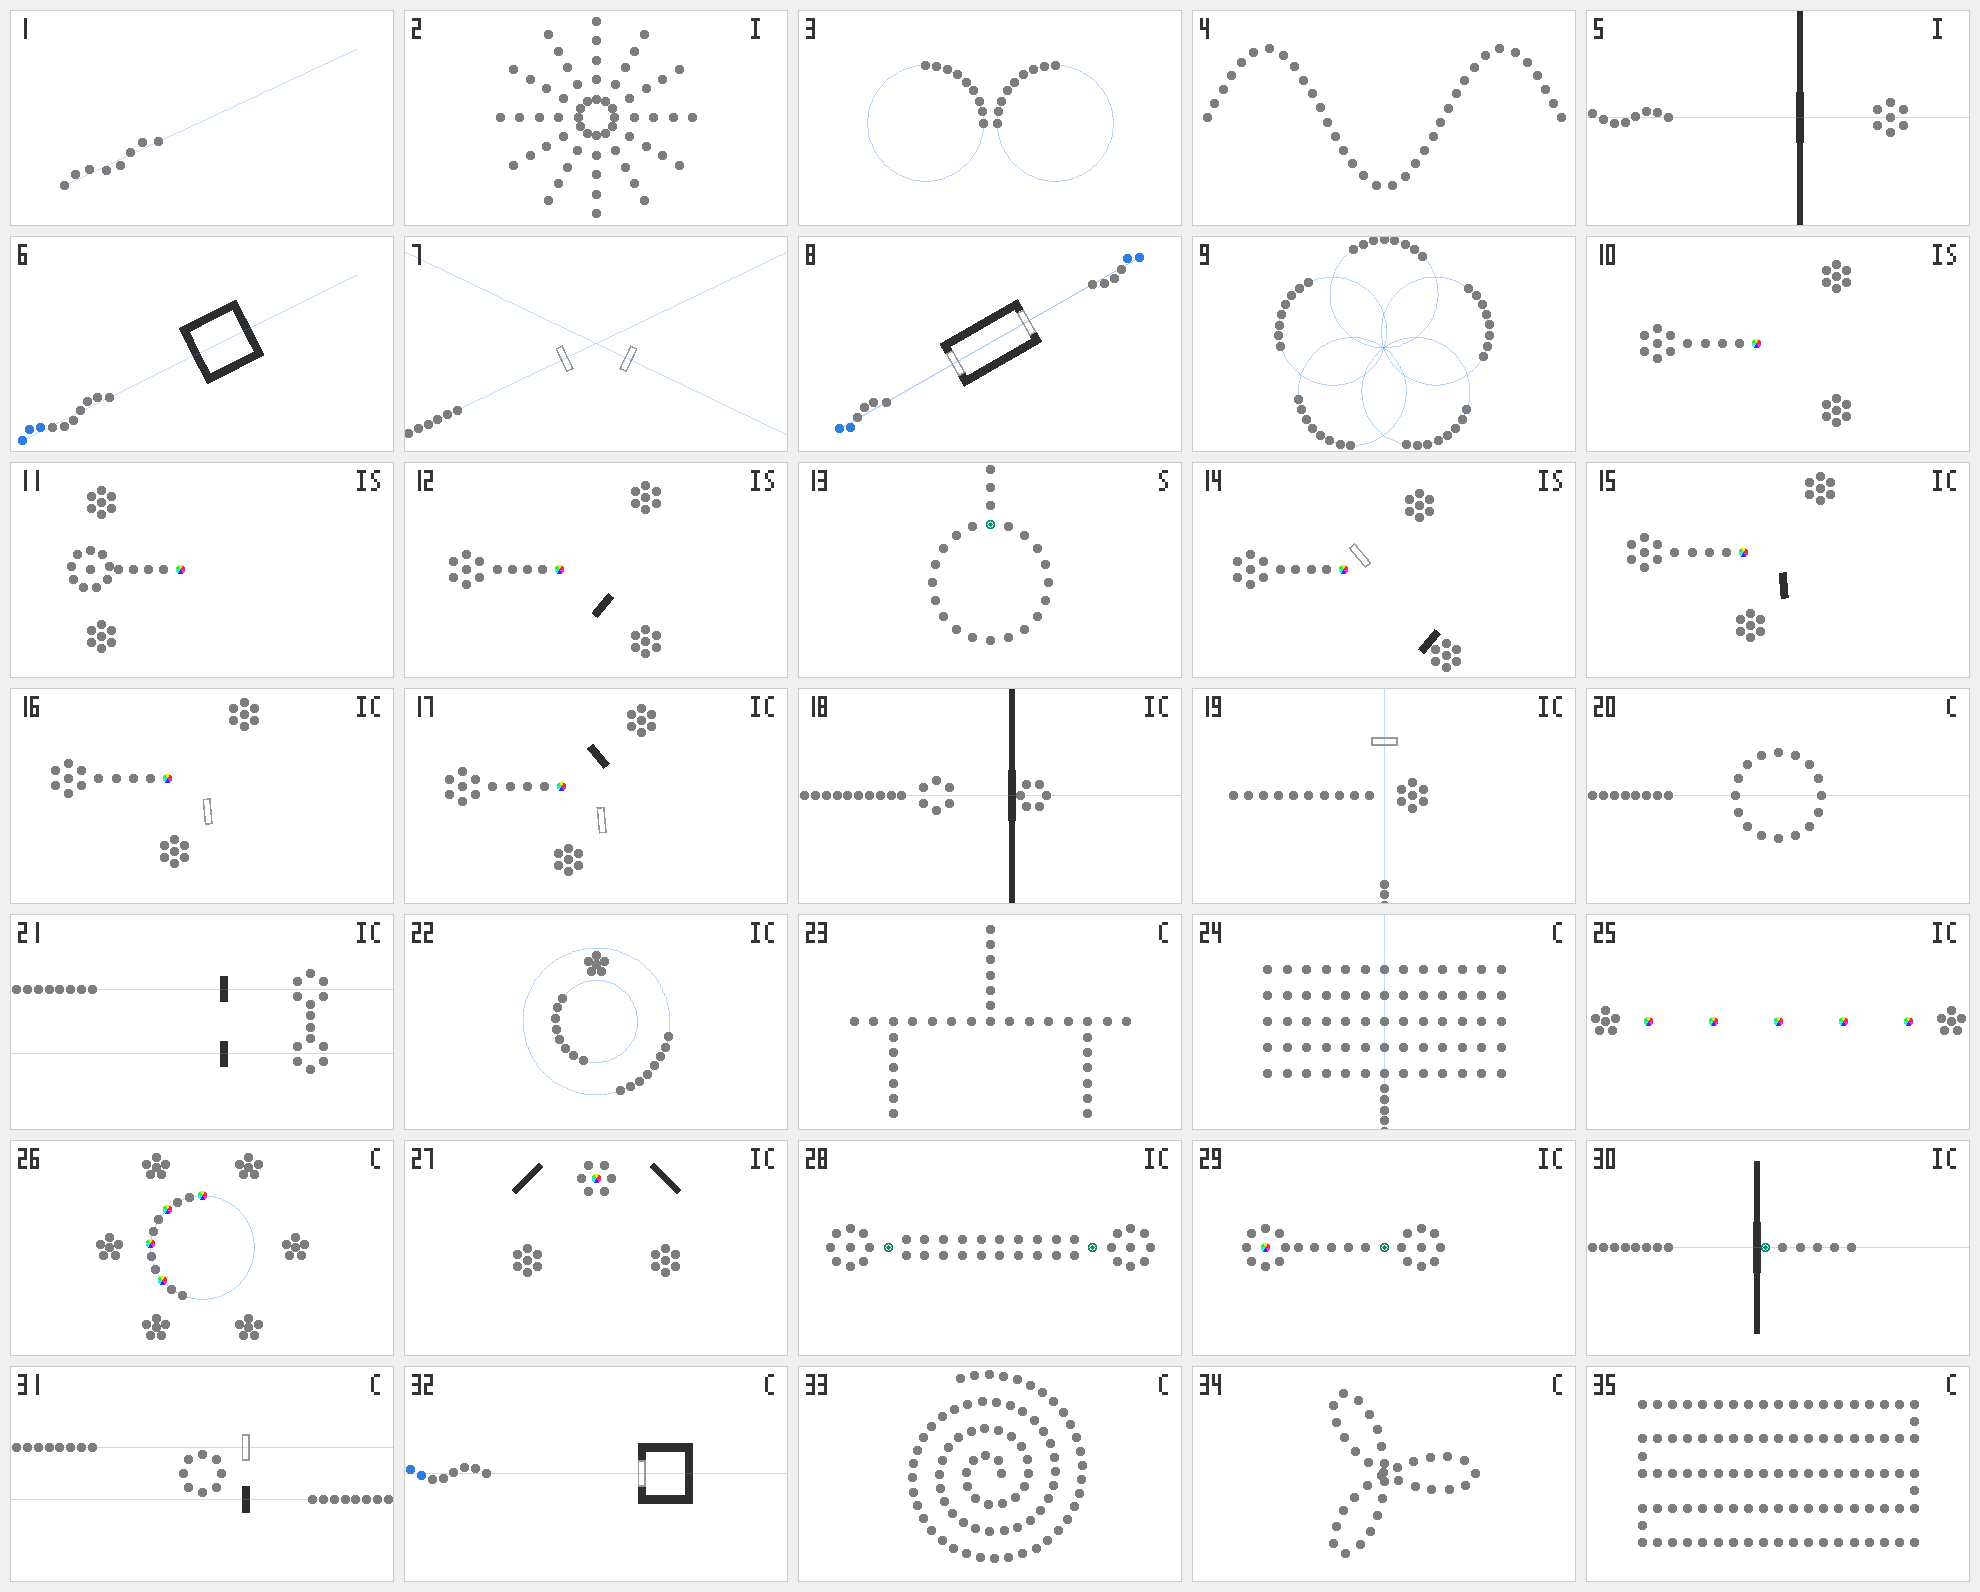
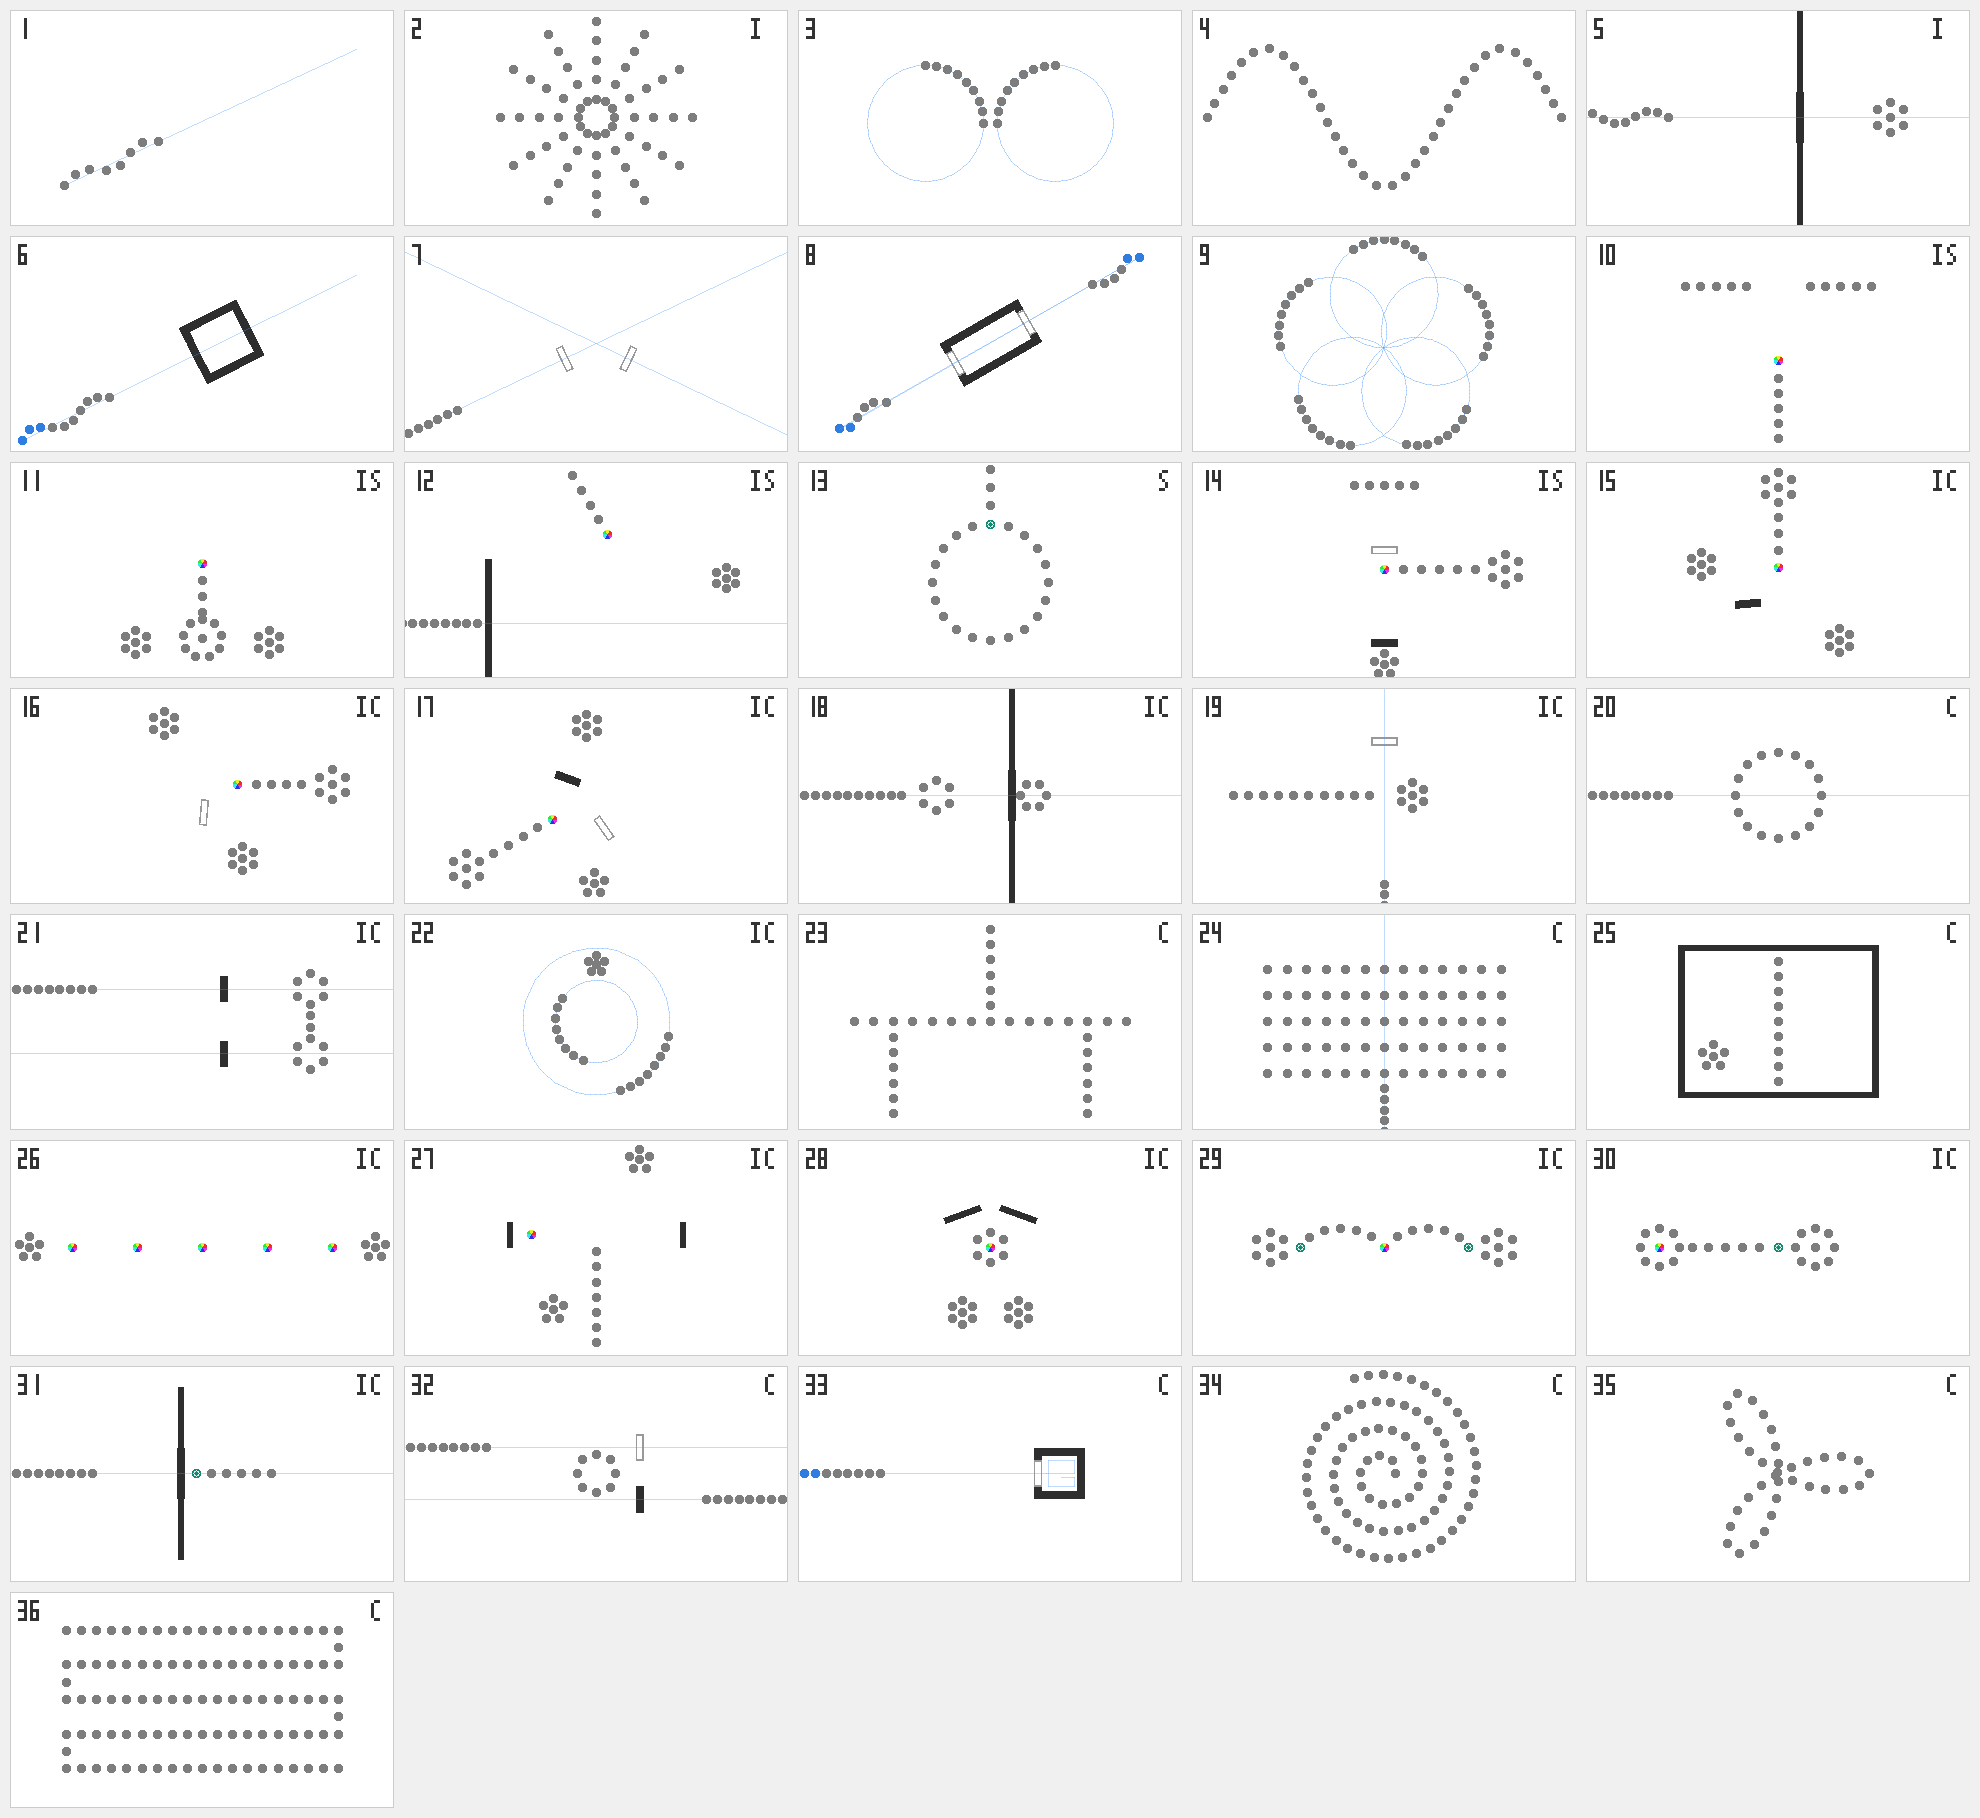
新关 漂流：一团球在框里漂，穿过静止的线时点线；流星缩短燃烧时间堵住在航线上守株待兔
漂流用旧关的整团漂移动法，但只留一条线，能全清；窗口在那团刚到线上的半秒。
流星原来把火圈点在五彩球航线上等它撞进来也能过（随手一点 10%），火改成烧 0.9 秒后只剩卡时机那一下。
总览图重出，36 格。

diff --git a/Assets/Scripts/LevelCatalog.cs b/Assets/Scripts/LevelCatalog.cs
@@ -69,6 +69,7 @@ public static class LevelCatalog
         Add(Breathe(Binary()), dyn, "两条弧一内一外反向转，顶上一小团，两个队头同时到时点");           // 22
         Add(Loom(), dyn, "三列球上下穿梭，横着一条静止的线，像织布");                         // 23
         Add(Strings(), dyn, "五根静止的弦，一队球竖着穿过去，把五根弦一起拨响");             // 24
+        Add(Drift(), dyn, "一团球在框里漂来漂去，趁它穿过中间那条线的时候点线");            // 25
         // ---- 备选池：分裂球 ----
         const string spl = "备选 · 分裂球";
         Add(Breathe(Relay()), spl, "五颗五彩球隔着够不着的距离排一排，火星一路接力过去");             // 25
@@ -607,6 +608,26 @@ public static class LevelCatalog
         return d;
     }
 
+    /// <summary>
+    /// 漂流：一团六颗球整体以同一速度在一个框里漂流，撞墙一起反弹（弹性碰撞保形，队形永远不散）；
+    /// 框中间竖着一条静止的线。趁那团正穿过线的时候点线，线和团一起亮。每四秒左右穿一次。
+    /// 用的是旧「漂流」关的动法 —— 那关两个角落各一团，一下只够得着一团，做不到全清，所以撤了。
+    /// </summary>
+    static LevelDef Drift()
+    {
+        var d = new LevelDef { Id = "drift", NameZh = "漂流", NameEn = "Drift",
+            Palette = BallPalette.Tiffany, Pool = LevelPool.Candidate };
+        d.Walls.Add(new WallDef(0f, 3.4f, 9.3f, 0.3f));
+        d.Walls.Add(new WallDef(0f, -3.4f, 9.3f, 0.3f));
+        d.Walls.Add(new WallDef(-4.5f, 0f, 0.3f, 7.1f));
+        d.Walls.Add(new WallDef(4.5f, 0f, 0.3f, 7.1f));
+        LevelDef.Line(d.Balls, new Vector2(0f, -2.8f), new Vector2(0f, 2.8f), 9);
+        var mover = new List<BallDef>();
+        LevelDef.Cluster(mover, new Vector2(-3.0f, -1.6f), 0.55f, 5);
+        foreach (var m in mover) { var b = m; b.Vel = new Vector2(2.6f, 1.7f); d.Balls.Add(b); }
+        return d;
+    }
+
     // =====================================================================
     // 备选：分裂球
     // =====================================================================
@@ -633,8 +654,9 @@ public static class LevelCatalog
     /// </summary>
     static LevelDef Meteor()
     {
+        // 火烧得短一点（0.9 秒）：不然把火圈点在它的航线上等它撞进来也能过，随手一点 10%；缩短后只剩真正卡时机的那半秒
         var d = new LevelDef { Id = "meteor", NameZh = "流星", NameEn = "Meteor",
-            Palette = BallPalette.Rainbow, Pool = LevelPool.Candidate };
+            Palette = BallPalette.Rainbow, Pool = LevelPool.Candidate, ReactionDuration = 0.9f };
         LevelDef.Line(d.Balls, new Vector2(0f, -4.4f), new Vector2(0f, -0.2f), 7);
         var m = new BallDef(-3.0f, 0.6f, BallKind.Split) { SplitAxisDeg = 60f };
         m.Vel = new Vector2(2.0f, 0f);
